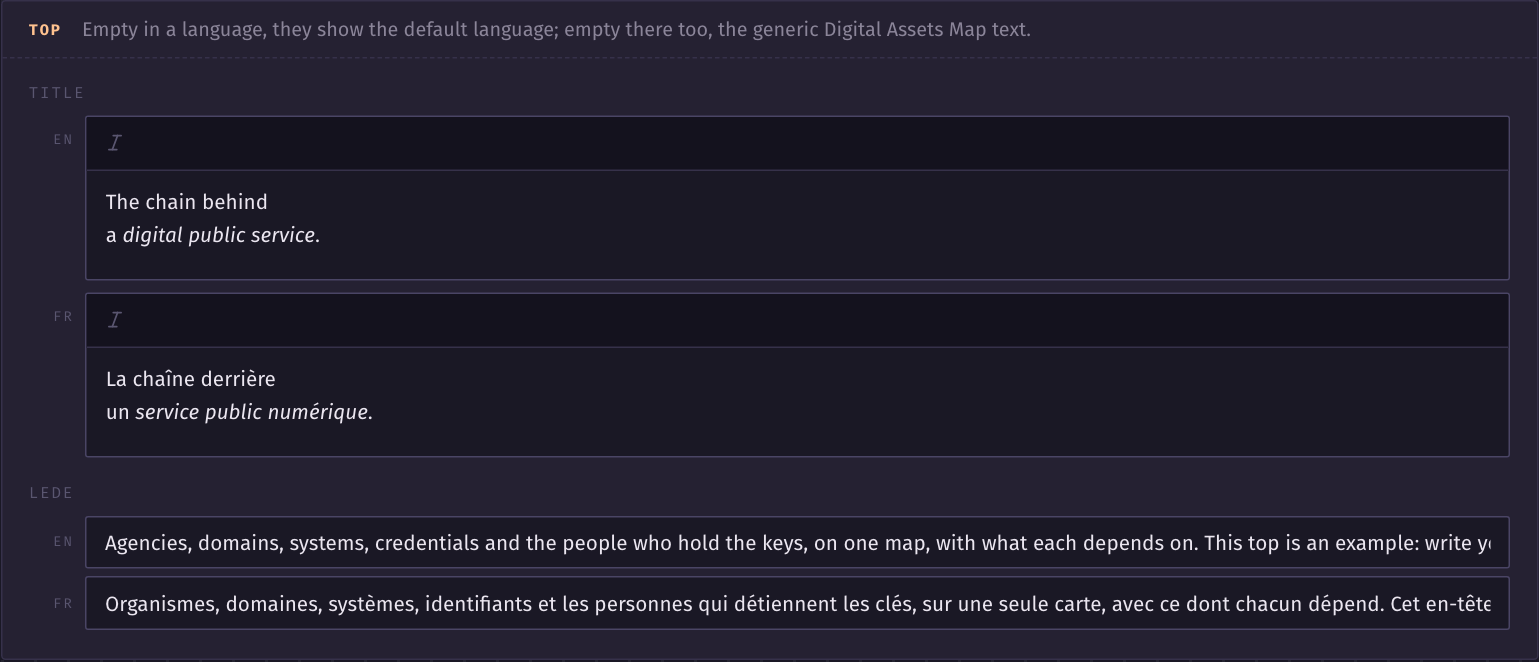
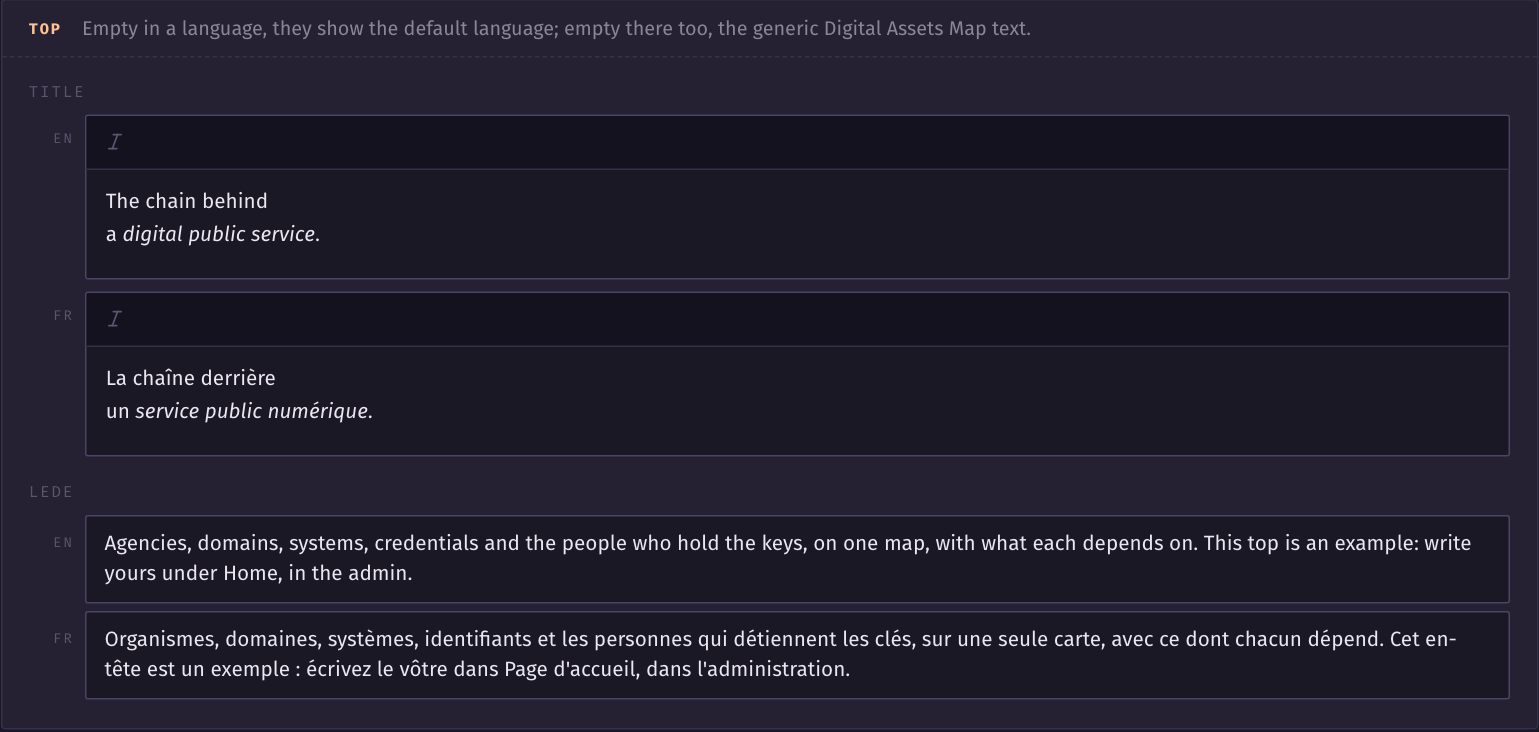
feat: the home lede grows with its text
A lede is usually two sentences: the field is a textarea per locale,
sized to its text, with no scroll inside it.

diff --git a/src/lib/components/LocalizedInput.svelte b/src/lib/components/LocalizedInput.svelte
@@ -9,6 +9,8 @@
 		id?: string;
 		/** When true, the default locale is `required`. Default: true. */
 		required?: boolean;
+		/** A text of a few lines (a lede): a field that grows with its text, with no scroll inside. */
+		multiline?: boolean;
 		/** Locales to show. Default: the deploy's. */
 		locales?: Locale[];
 	}
@@ -19,10 +21,30 @@
 		placeholder = '',
 		id,
 		required = true,
+		multiline = false,
 		locales
 	}: Props = $props();
 
 	let shown = $derived(locales ?? localesState.all);
+
+	/** Fits the field to its text, now and on every change of it (typing, a load, Discard). */
+	function grow(el: HTMLTextAreaElement, _text: string) {
+		const fit = () => {
+			el.style.height = 'auto';
+			el.style.height = `${el.scrollHeight + 2}px`;
+		};
+		fit();
+		el.addEventListener('input', fit);
+		return {
+			update(next: string) {
+				void next;
+				fit();
+			},
+			destroy() {
+				el.removeEventListener('input', fit);
+			}
+		};
+	}
 
 	$effect(() => {
 		for (const loc of shown) {
@@ -35,15 +57,28 @@
 	{#each shown as loc (loc.id)}
 		<div class="row">
 			<span class="loc-tag">{loc.code.toUpperCase()}</span>
-			<input
-				id={id ? `${id}-${loc.code}` : undefined}
-				class="input"
-				{type}
-				placeholder={placeholder || loc.label}
-				required={required && loc.is_default}
-				bind:value={value[loc.code]}
-				dir={loc.direction}
-			/>
+			{#if multiline}
+				<textarea
+					id={id ? `${id}-${loc.code}` : undefined}
+					class="input lines"
+					rows="2"
+					placeholder={placeholder || loc.label}
+					required={required && loc.is_default}
+					bind:value={value[loc.code]}
+					dir={loc.direction}
+					use:grow={value[loc.code]}
+				></textarea>
+			{:else}
+				<input
+					id={id ? `${id}-${loc.code}` : undefined}
+					class="input"
+					{type}
+					placeholder={placeholder || loc.label}
+					required={required && loc.is_default}
+					bind:value={value[loc.code]}
+					dir={loc.direction}
+				/>
+			{/if}
 		</div>
 	{/each}
 </div>
@@ -59,6 +94,20 @@
 		grid-template-columns: 2rem 1fr;
 		gap: 0.5rem;
 		align-items: center;
+	}
+	.row:has(.lines) {
+		align-items: start;
+	}
+	.row:has(.lines) .loc-tag {
+		padding-top: 0.75rem;
+	}
+	/* the action sets the height; the browser's own field sizing does it where it exists */
+	.lines {
+		display: block;
+		resize: none;
+		overflow: hidden;
+		line-height: 1.45;
+		field-sizing: content;
 	}
 	.loc-tag {
 		font-family: 'Fira Mono', monospace;

diff --git a/src/routes/admin/home/+page.svelte b/src/routes/admin/home/+page.svelte
@@ -458,7 +458,7 @@
 						</div>
 						<div class="admin-field">
 							<span class="field-label">{m('home_admin.field.lede')}</span>
-							<LocalizedInput id="top-lede" bind:value={top.lede} required={false} locales={shownLocales} />
+							<LocalizedInput id="top-lede" bind:value={top.lede} required={false} multiline locales={shownLocales} />
 						</div>
 					</div>
 				</article>

diff --git a/docs/home.md b/docs/home.md
@@ -8,7 +8,7 @@ A new deployment starts with an example: a top, a text about the map, a picture 
 
 ## The top
 
-The **Top** card holds the title and the lede, in each language. The title takes italics, for the words that stand out, and line breaks: Enter starts a new line. The lede is plain text.
+The **Top** card holds the title and the lede, in each language. The title takes italics, for the words that stand out, and line breaks: Enter starts a new line. The lede is plain text, in a field that grows with it.
 
 A language left empty shows the default language. With the default language empty too, the page shows the generic text, "Digital Assets Map of the digital infrastructure" and its lede, so a deployment that writes nothing at the top reads as the product.
 
